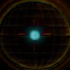
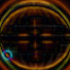
checks for infront or behind, to validate false positives

diff --git a/first_test_clean.py b/first_test_clean.py
@@ -77,27 +77,51 @@ def output(deviation: tuple):
     Args:
         deviation (tuple): Deviation from center
     """
-    if abs(deviation[0]) < 4 and abs(deviation[1]) > 4:
+    if abs(deviation[0]) < 5 and abs(deviation[1]) > 5:
         # Target is horizontally centered
-        if deviation[1] > 4:
+        if deviation[1] > 5:
             # Target is above
             print('Target is below')
-        elif deviation[1] < -4:
+        elif deviation[1] < -5:
             # Target is below
             print('Target is above')
-    elif abs(deviation[0]) > 4:
+    elif abs(deviation[0]) > 5:
         # Target is not horizontally centered
-        if deviation[0] > 4:
+        if deviation[0] > 5:
             # Target is to the right
             print('Target is to the right')
-        elif deviation[0] < -4:
+        elif deviation[0] < -5:
             # Target is to the left
             print('Target is to the left')
-    elif abs(deviation[0]) < 4 and abs(deviation[1]) < 4:
+    elif abs(deviation[0]) < 5 and abs(deviation[1]) < 5:
         # Target is centered
         print('Target is centered')
+        check_centered()
     
     print(deviation)
+
+def check_centered():
+    """
+    Checks if the target is centered or anticentered
+    """
+    #finds average brightness of the center of the found compass
+    corners = [(30,30),(39,30),(30,39),(39,39)]
+    found_compass = Image.open('pictures/found_compass.png')
+    gs_compass = found_compass.convert('L')
+    brightness = []
+    #average every pixel in the square cornered by corners
+    for x in range(30,40):
+        for y in range(30,40):
+            brightness.append(gs_compass.getpixel((x,y)))
+    avg_brightness = sum(brightness)/len(brightness)
+    print(avg_brightness)
+    if avg_brightness > 100:
+        print('Target is centered')
+    elif avg_brightness > 30:
+        print('Target is anticentered')
+    else:
+        print('Target is not centered or anticentered')
+
 
 if __name__ == '__main__':
     while True:
@@ -107,3 +131,4 @@ if __name__ == '__main__':
         find_compass()
         dev = target_deviation()
         output(dev)
+        #check_centered()
